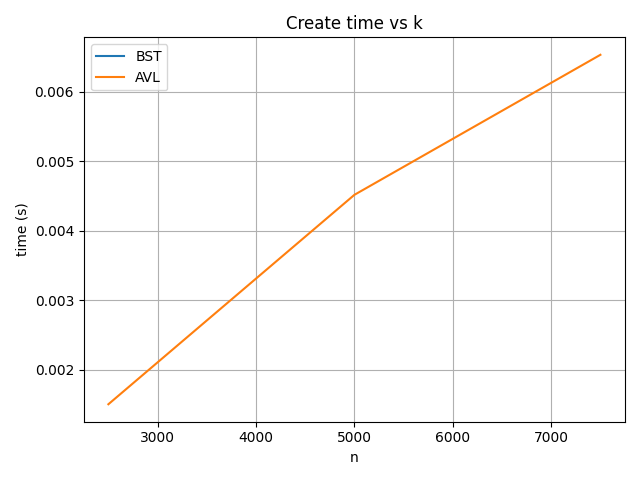
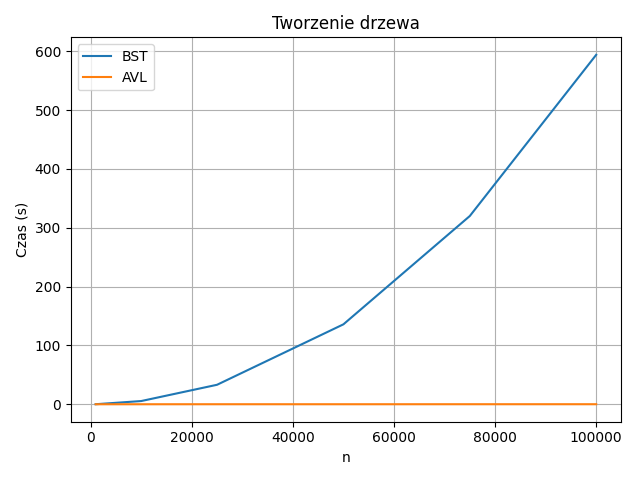
AIDS -- Tree -- Finished plots

diff --git a/AIDS/Tree/main.py b/AIDS/Tree/main.py
@@ -17,7 +17,7 @@ import sys
 sys.setrecursionlimit(10**6)
 
 
-K = [1000, 2000, 3000, 4000]
+K = [1000, 10000, 25000, 50000, 75000, 100000]
 
 def main_test():
 
@@ -34,44 +34,67 @@ def main_test():
 
 
   for k in K:
-    print(f"Test for k = {k} started")
-    array = Generator.generate_int(k)
-    bst_session(array.copy(), cursor, conn, k)
-    avl_session(array.copy(), cursor, conn, k)
+    for i in range(1):
+      array = Generator.generate_int(k)
+      bst_session(array, cursor, conn, k)
+      avl_session(array, cursor, conn, k)
+      print(f"Session {i+1} for k={k} completed.")
   
   conn.commit()
   
 
-  plot_operation(cursor, "create", "AIDS/Tree/plots/create.png")
-  plot_operation(cursor, "find min", "AIDS/Tree/plots/find_min.png")
-  plot_operation(cursor, "in order", "AIDS/Tree/plots/in_order.png")
-  plot_operation(cursor, "balance", "AIDS/Tree/plots/balance.png")
+  plot_operation(cursor, "create", "AIDS/Tree/plots/create.png", "Tworzenie drzewa")
+  plot_operation(cursor, "find min", "AIDS/Tree/plots/find_min.png", "Wyszukiwanie minimum")
+  plot_operation(cursor, "in order", "AIDS/Tree/plots/in_order.png", "In order")
+  plot_operation(cursor, "balance", "AIDS/Tree/plots/balance.png", "Balansowanie")
   
   conn.close()
 
 
 
-def plot_operation(cursor, operation_name, output_file):
+def plot_operation(cursor, operation_name, output_file, title):
     cursor.execute('SELECT * FROM test_results WHERE name = ?', (operation_name,))
     rows = cursor.fetchall()
 
-    x_bst = [row[2] for row in rows if row[3] == 'bst']
-    y_bst = [row[0] for row in rows if row[3] == 'bst']
-    x_avl = [row[2] for row in rows if row[3] == 'avl']
-    y_avl = [row[0] for row in rows if row[3] == 'avl']
+    # Grupy wyników po (k, type)
+    bst_data = {}
+    avl_data = {}
 
+    for row in rows:
+        time = row[0]
+        k = row[2]
+        tree_type = row[3]
+
+        if tree_type == 'bst':
+            if k not in bst_data:
+                bst_data[k] = []
+            bst_data[k].append(time)
+        elif tree_type == 'avl':
+            if k not in avl_data:
+                avl_data[k] = []
+            avl_data[k].append(time)
+
+    # Oblicz średnie wartości
+    x_bst = sorted(bst_data.keys())
+    y_bst = [sum(bst_data[k]) / len(bst_data[k]) for k in x_bst]
+
+    x_avl = sorted(avl_data.keys())
+    y_avl = [sum(avl_data[k]) / len(avl_data[k]) for k in x_avl]
+
+    # Rysuj wykres
     plt.plot(x_bst, y_bst, label='BST')
     plt.plot(x_avl, y_avl, label='AVL')
 
     plt.xlabel('n')
-    plt.ylabel('time (s)')
-    plt.title(f'{operation_name.capitalize()} time vs k')
+    plt.ylabel('Czas (s)')
+    plt.title(title)
     plt.legend()
     plt.grid(True)
     plt.tight_layout()
 
     plt.savefig(output_file)
     plt.close()
+
 
 def bst_session(array: list, cursor, conn, k):
   bst = BST()
@@ -135,7 +158,7 @@ def test_balance_bst(tree: BST):
 def avl_session(array: list, cursor, conn, k):
   avl = AVL()
 
-  avl_create, avl = test_create_avl(avl)
+  avl_create, avl = test_create_avl(avl, array)
   avl_find_min = test_find_min_avl(avl)
   avl_in_order = test_in_order_avl(avl)
   print(f"AVL: k: {k} {avl_create.time}, {avl_find_min.time}, {avl_in_order.time}")
@@ -160,13 +183,13 @@ def test_create_avl(tree: AVL, k: list):
   then = ti.time()
   return Record(then - now, "create", "avl"), tree
 
-def test_find_min_avl(tree: AVL, k: list):
+def test_find_min_avl(tree: AVL):
   now = ti.time()
   tree.find_min()
   then = ti.time()
   return Record(then - now, "find min", "avl")
 
-def test_in_order_avl(tree: AVL, k: list):
+def test_in_order_avl(tree: AVL):
   now = ti.time()
   tree.in_order()
   then = ti.time()

diff --git a/AIDS/Tree/BST.py b/AIDS/Tree/BST.py
@@ -58,7 +58,7 @@ class BST():
     def _in_order(self, node):
         if node:
             self._in_order(node.left)
-            #print(node.key, end=" ")
+            print(node.key, end=" ")
             self._in_order(node.right)
 
 
